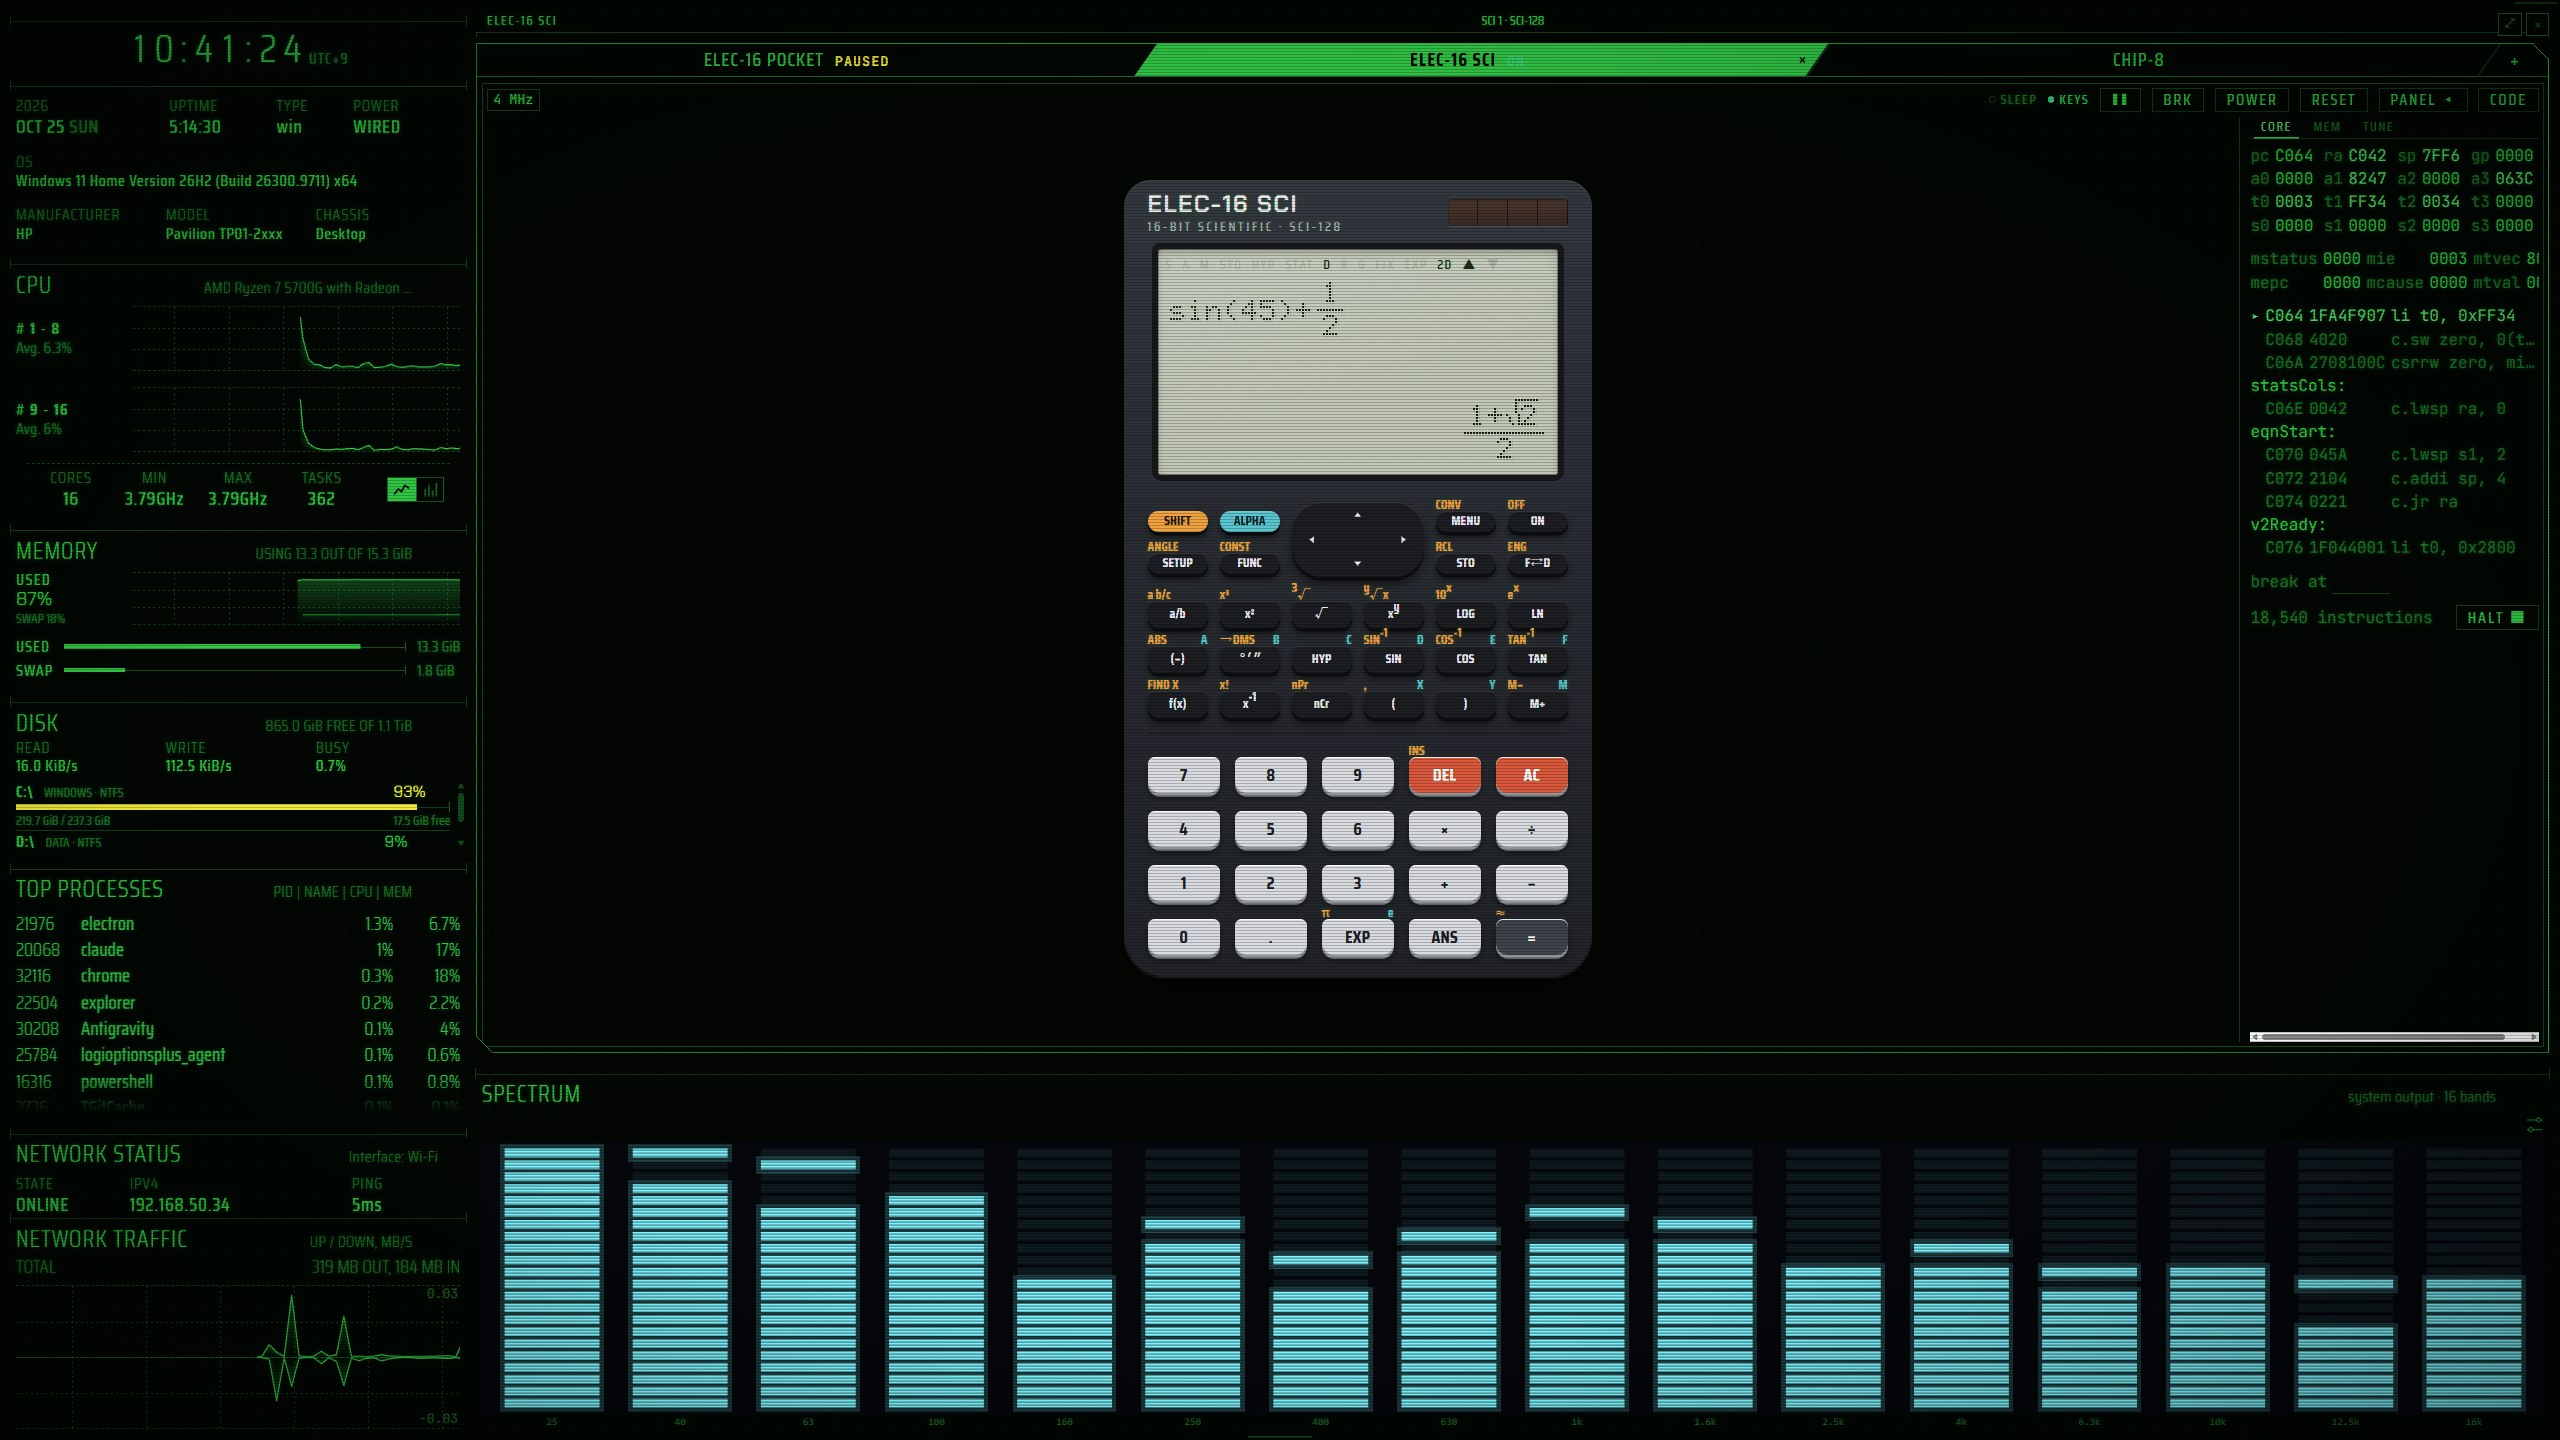
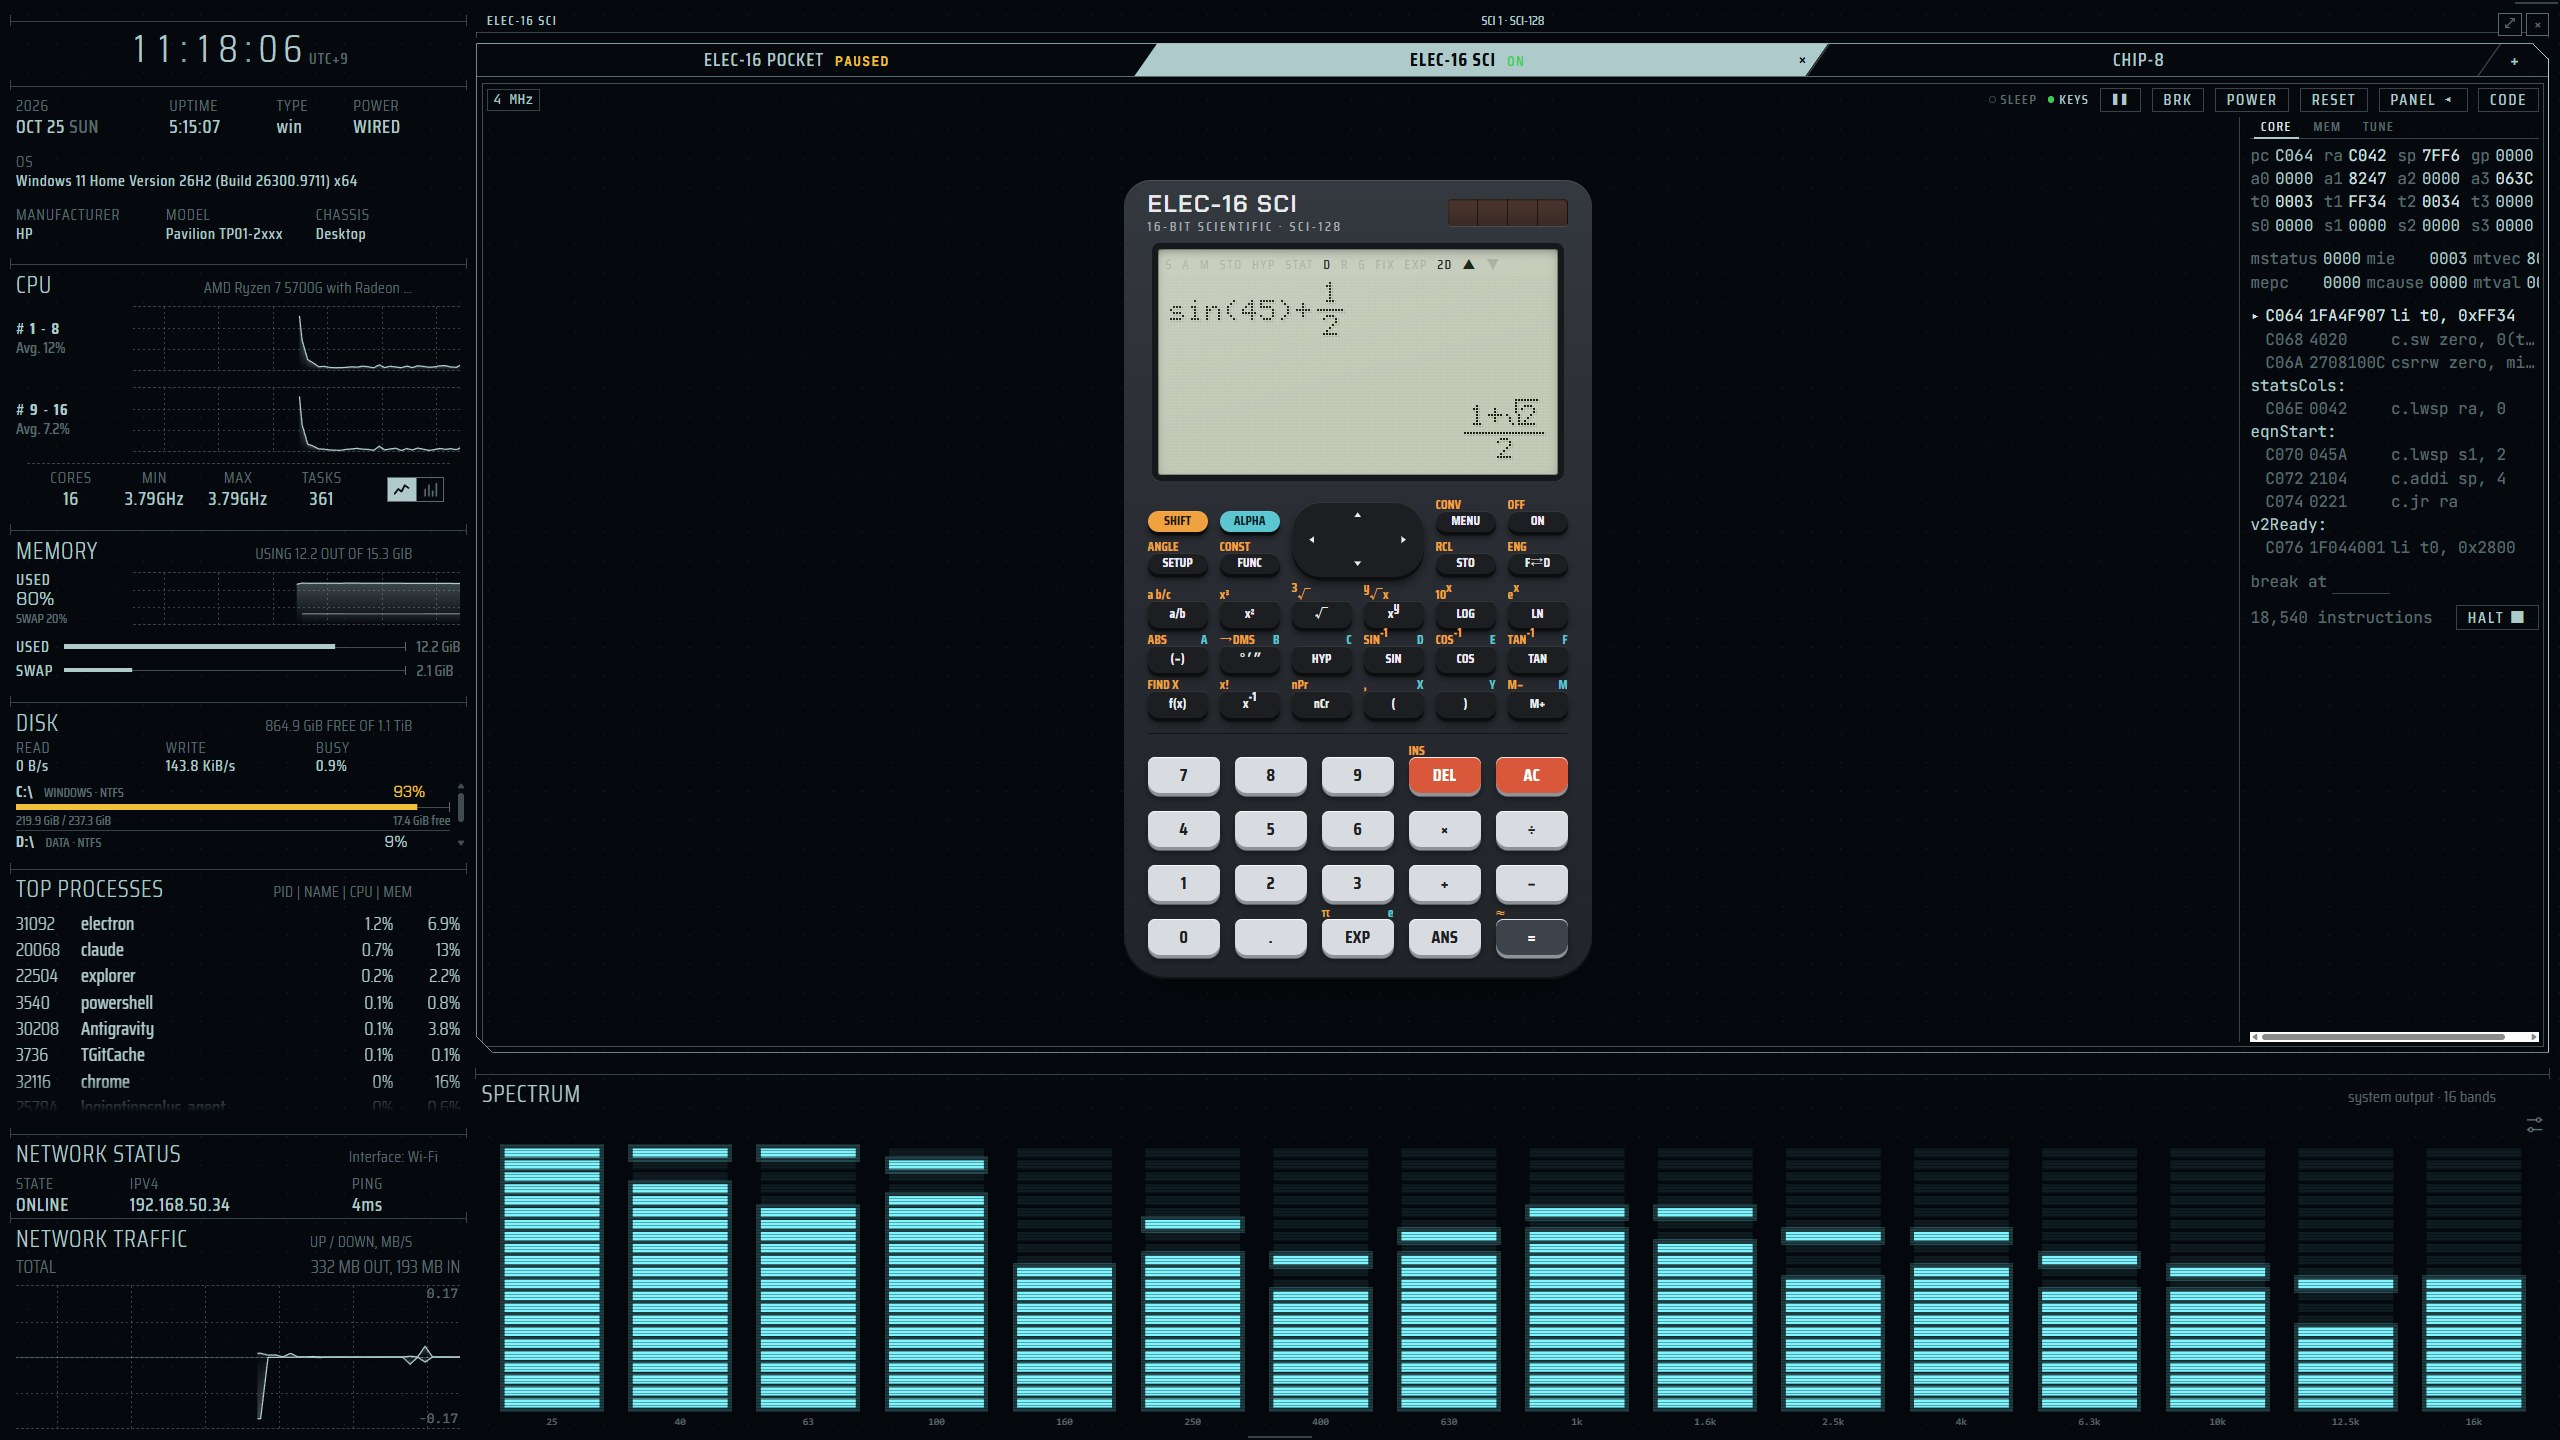
feat(screenshots): desk in Black, retro in Tron / desk は Black、retro は Tron で撮る
The two presets' shots in the themes chosen for them, the captions to match. / 2 つのプリセットのショットを選んだテーマで撮り、説明もそれに合わせた。

diff --git a/README.ja.md b/README.ja.md
@@ -135,8 +135,8 @@ elecdex を最初に開いたときの配置で、ページ冒頭の画像がこ
 ### desk — 書く、数える、時間を計る
 
 <p align="center">
-  <img src="./docs/screenshots/elecdex-desk.jpg" alt="Business (Light) テーマの desk プリセット：リリースのチェックリストを書いたメモペインとその下のタイマーと電卓、期限をメーターで描くタスクペインとその下の架空のコピーを並べたクリップボード履歴、3 か月のカレンダーとその下に Utility ペインのタブの前に出した関数電卓 ELEC-16 SCI。sin(45)+1/2 を正確な形 (1+√2)/2 で答えている">
-  <br><sub>desk · Business (Light)</sub>
+  <img src="./docs/screenshots/elecdex-desk.jpg" alt="Black テーマの desk プリセット：リリースのチェックリストを書いたメモペインとその下のタイマーと電卓、期限をメーターで描くタスクペインとその下の架空のコピーを並べたクリップボード履歴、3 か月のカレンダーとその下に Utility ペインのタブの前に出した関数電卓 ELEC-16 SCI。sin(45)+1/2 を正確な形 (1+√2)/2 で答えている">
+  <br><sub>desk · Black</sub>
 </p>
 
 - **デスク系ペイン** — 入力して使う電卓（全角数字や 3百万 も入力どおりに読み、テープ表示と、
@@ -188,8 +188,8 @@ elecdex を最初に開いたときの配置で、ページ冒頭の画像がこ
 ### retro — elecdex の 2 台の機械と、その音
 
 <p align="center">
-  <img src="./docs/screenshots/elecdex-retro.jpg" alt="Phosphor テーマの retro プリセット：左にシステムの列、右に ELEC-16、その関数電卓 ELEC-16 SCI、CHIP-8 をタブにした 1 つのペイン。手前は関数電卓で SLATE の本体、液晶に sin(45)+1/2 を正確な形 (1+√2)/2 で答え、その下に関数のキーと数字のキー。横にパネルの CORE でレジスタと動いている ROM のコード。その下に 16 バンドのスペクトラム">
-  <br><sub>retro · Phosphor · ELEC-16 は PLAIN スキン</sub>
+  <img src="./docs/screenshots/elecdex-retro.jpg" alt="Tron テーマの retro プリセット：左にシステムの列、右に ELEC-16、その関数電卓 ELEC-16 SCI、CHIP-8 をタブにした 1 つのペイン。手前は関数電卓で SLATE の本体、液晶に sin(45)+1/2 を正確な形 (1+√2)/2 で答え、その下に関数のキーと数字のキー。横にパネルの CORE でレジスタと動いている ROM のコード。その下に 16 バンドのスペクトラム">
+  <br><sub>retro · Tron · 手前は ELEC-16 SCI</sub>
 </p>
 
 <p align="center">

diff --git a/README.md b/README.md
@@ -138,8 +138,8 @@ The arrangement elecdex opens with, in the picture at the top (Tron).
 ### desk — writing, counting and keeping time
 
 <p align="center">
-  <img src="./docs/screenshots/elecdex-desk.jpg" alt="The desk preset in the Business (Light) theme: a notes pane with a release checklist, a timer and a calculator under it; a tasks pane with deadlines drawn as meters over a clipboard history of made-up copies; three months of the calendar over the calculator ELEC-16 SCI, in front of the utility pane's tab, answering sin(45)+1/2 with its exact form (1+√2)/2">
-  <br><sub>desk · Business (Light)</sub>
+  <img src="./docs/screenshots/elecdex-desk.jpg" alt="The desk preset in the Black theme: a notes pane with a release checklist, a timer and a calculator under it; a tasks pane with deadlines drawn as meters over a clipboard history of made-up copies; three months of the calendar over the calculator ELEC-16 SCI, in front of the utility pane's tab, answering sin(45)+1/2 with its exact form (1+√2)/2">
+  <br><sub>desk · Black</sub>
 </p>
 
 - **Desk panes** — a calculator you type into (full-width digits and 3百万 read as typed, with a
@@ -194,8 +194,8 @@ The arrangement elecdex opens with, in the picture at the top (Tron).
 ### retro — two machines of elecdex's own, and the sound
 
 <p align="center">
-  <img src="./docs/screenshots/elecdex-retro.jpg" alt="The retro preset in the Phosphor theme: the system column on the left; on the right one pane with ELEC-16, its calculator ELEC-16 SCI and CHIP-8 as tabs, the calculator in front in its SLATE body, its LCD answering sin(45)+1/2 with its exact form (1+√2)/2 over two rows of function keys and the number keys, its panel's CORE beside it with the registers and the ROM's code running; under it the spectrum at sixteen bands">
-  <br><sub>retro · Phosphor · the ELEC-16 in its PLAIN skin</sub>
+  <img src="./docs/screenshots/elecdex-retro.jpg" alt="The retro preset in the Tron theme: the system column on the left; on the right one pane with ELEC-16, its calculator ELEC-16 SCI and CHIP-8 as tabs, the calculator in front in its SLATE body, its LCD answering sin(45)+1/2 with its exact form (1+√2)/2 over two rows of function keys and the number keys, its panel's CORE beside it with the registers and the ROM's code running; under it the spectrum at sixteen bands">
+  <br><sub>retro · Tron · ELEC-16 SCI in front</sub>
 </p>
 
 <p align="center">

diff --git a/README.zh-CN.md b/README.zh-CN.md
@@ -123,8 +123,8 @@ elecdex 启动时的默认布局，即页首那张图（Tron）。
 ### desk — 写字、计算和掌握时间
 
 <p align="center">
-  <img src="./docs/screenshots/elecdex-desk.jpg" alt="Business (Light) 主题下的 desk 预设：记事窗格里是一份发布检查清单，下面是计时器和计算器；任务窗格把截止时间画成仪表，下面是虚构复制内容的剪贴板历史；三个月的日历，下面是切到实用工具窗格标签页前面的函数计算器 ELEC-16 SCI，以精确形式 (1+√2)/2 回答 sin(45)+1/2">
-  <br><sub>desk · Business (Light)</sub>
+  <img src="./docs/screenshots/elecdex-desk.jpg" alt="Black 主题下的 desk 预设：记事窗格里是一份发布检查清单，下面是计时器和计算器；任务窗格把截止时间画成仪表，下面是虚构复制内容的剪贴板历史；三个月的日历，下面是切到实用工具窗格标签页前面的函数计算器 ELEC-16 SCI，以精确形式 (1+√2)/2 回答 sin(45)+1/2">
+  <br><sub>desk · Black</sub>
 </p>
 
 - **桌面窗格** — 一个直接输入的计算器（全角数字和 3百万 这样的写法按原样识别，带纸带记录，
@@ -171,8 +171,8 @@ elecdex 启动时的默认布局，即页首那张图（Tron）。
 ### retro — elecdex 自己的两台机器，以及声音
 
 <p align="center">
-  <img src="./docs/screenshots/elecdex-retro.jpg" alt="Phosphor 主题的 retro 预设：左侧是系统栏；右侧是一个把 ELEC-16、它的函数计算器 ELEC-16 SCI 和 CHIP-8 作为标签页的窗格，前面是函数计算器的 SLATE 机身，液晶以精确形式 (1+√2)/2 回答 sin(45)+1/2，下面是函数键和数字键，旁边是面板的 CORE，显示寄存器和正在运行的 ROM 代码；下方是 16 段的频谱">
-  <br><sub>retro · Phosphor · ELEC-16 使用 PLAIN 外观</sub>
+  <img src="./docs/screenshots/elecdex-retro.jpg" alt="Tron 主题的 retro 预设：左侧是系统栏；右侧是一个把 ELEC-16、它的函数计算器 ELEC-16 SCI 和 CHIP-8 作为标签页的窗格，前面是函数计算器的 SLATE 机身，液晶以精确形式 (1+√2)/2 回答 sin(45)+1/2，下面是函数键和数字键，旁边是面板的 CORE，显示寄存器和正在运行的 ROM 代码；下方是 16 段的频谱">
+  <br><sub>retro · Tron · 前面是 ELEC-16 SCI</sub>
 </p>
 
 <p align="center">
